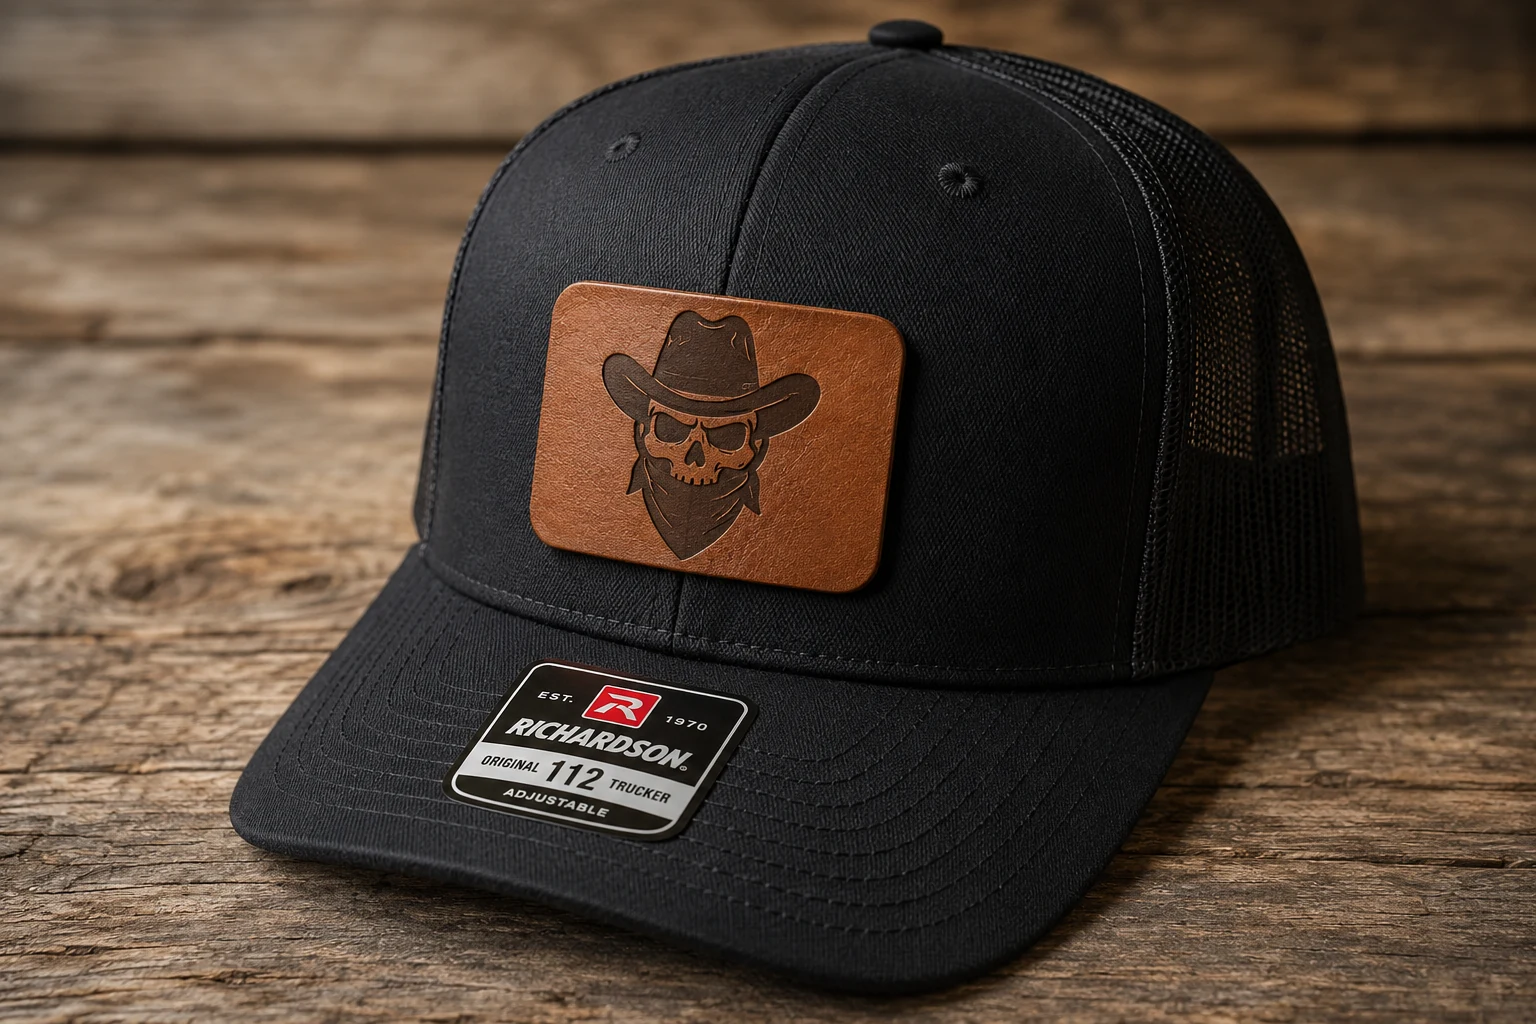
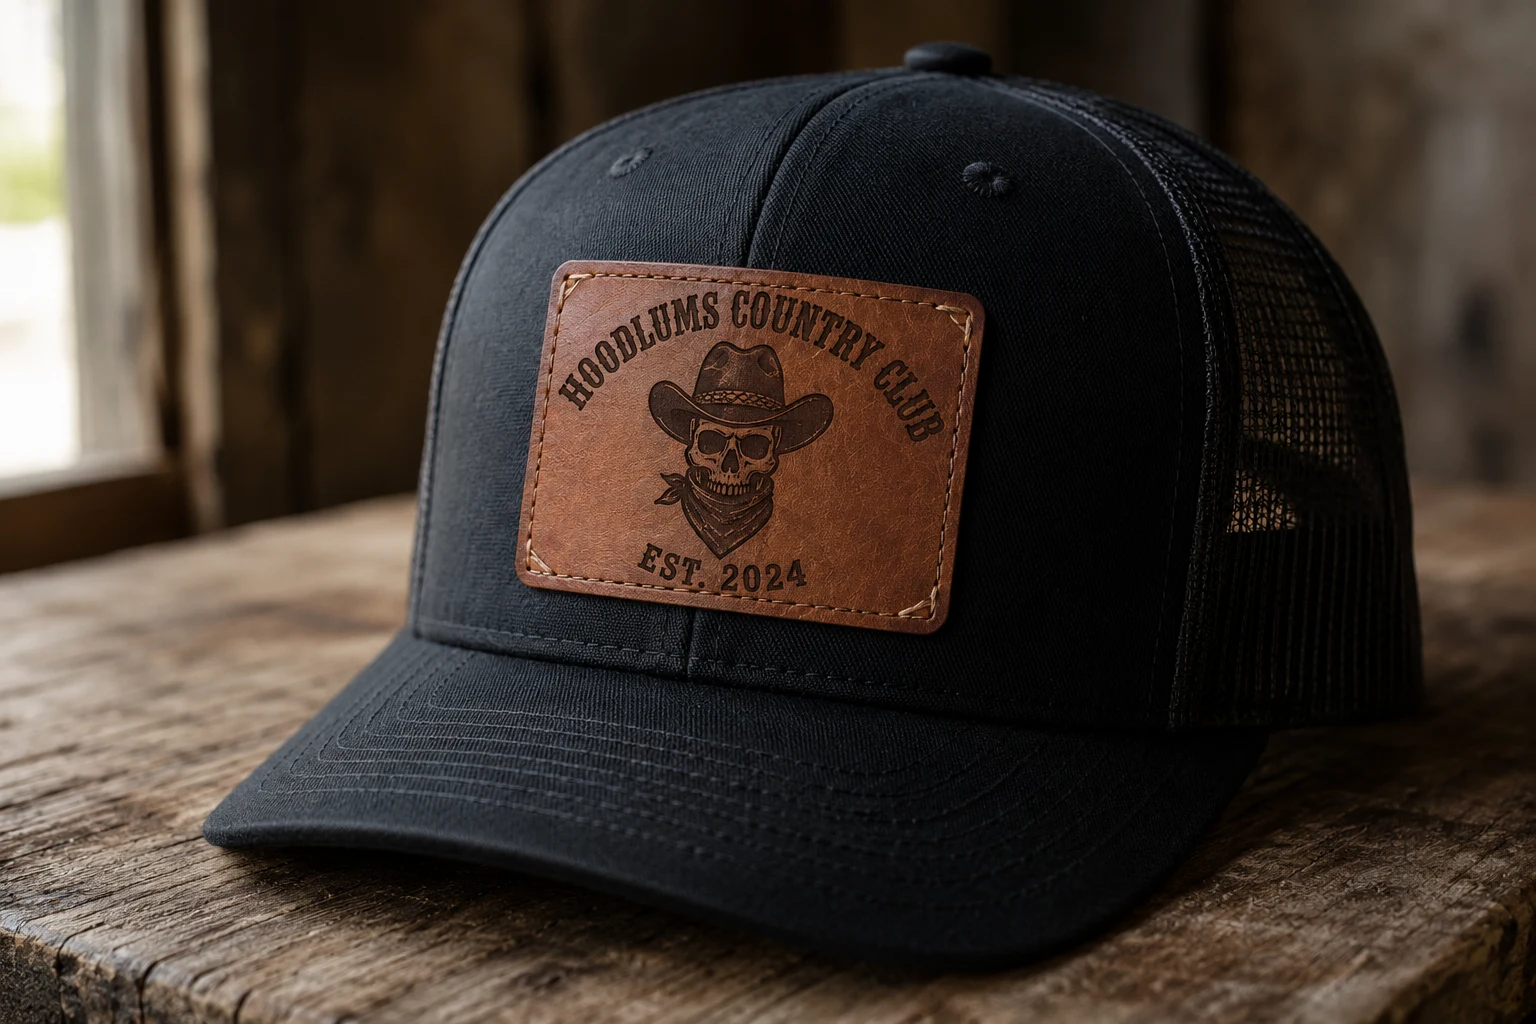
Add 6 HOODLUMS COUNTRY CLUB leather patch hat mockups
Generated photorealistic Richardson 112 + brown veg-tan leather patch
product photos via ChatGPT browser automation. Every patch shows
HOODLUMS COUNTRY CLUB engraved (the whole point of the rebrand).

  prod_021 Mascot Patch Hat      - skull-cowboy mascot, EST. 2024
  prod_022 Crew Crest Patch Hat  - crossed shotgun+rod, EST. 2024 (renamed)
  prod_023 Sunset Highway        - sunset+truck silhouette, LIVE EACH DAY (NEW)
  prod_024 Tree of Hoodlums      - tree with name in branches+roots (NEW)
  prod_025 Bonfire Country       - bonfire+pines, EST. 2024 (NEW)
  prod_026 Compass Heritage      - compass rose, name on outer ring (NEW)

Also fixes printful-setup.mjs patchMockData regex that was duplicating
printfulVariantIds blocks on re-runs (anchored to product close brace
with literal 2-space indent and cleaned the global match pattern).
Cleaned up two corrupted blocks in mock-data (prod_002, prod_010).

diff --git a/src/lib/mock-data.ts b/src/lib/mock-data.ts
@@ -58,20 +58,12 @@ export const MOCK_PRODUCTS: Product[] = [
     printfulProductId: 969,
     printfulColor: "Black",
     printfulVariantIds: {
-      "2XL": 5324368978,
-      "3XL": 5324368979,
-      "L": 5324368980,
-      "M": 5324368981,
-      "S": 5324368982,
-      "XL": 5324368983,
-    printfulVariantIds: {
       "2XL": 5324426412,
       "3XL": 5324426413,
       "L": 5324426414,
       "M": 5324426415,
       "S": 5324426416,
       "XL": 5324426417,
-    },
     },
   },
   {
@@ -260,14 +252,6 @@ export const MOCK_PRODUCTS: Product[] = [
     printfulProductId: 586,
     printfulColor: "Black",
     printfulVariantIds: {
-      "2XL": 5324419102,
-      "3XL": 5324419103,
-      "4XL": 5324419104,
-      "L": 5324419105,
-      "M": 5324419106,
-      "S": 5324419107,
-      "XL": 5324419108,
-    printfulVariantIds: {
       "2XL": 5324426013,
       "3XL": 5324426014,
       "4XL": 5324426015,
@@ -275,7 +259,6 @@ export const MOCK_PRODUCTS: Product[] = [
       "M": 5324426019,
       "S": 5324426020,
       "XL": 5324426022,
-    },
     },
   },
   {
@@ -341,24 +324,80 @@ export const MOCK_PRODUCTS: Product[] = [
     isNew: true,
     isSoldOut: false,
     description:
-      "Richardson 112 all-black with a laser-engraved skull-cowboy mascot deboss on a genuine veg-tanned leather patch. Built for Hobbs Peak production.",
+      "Richardson 112 all-black with a laser-engraved veg-tanned leather patch — HOODLUMS COUNTRY CLUB arched at the top, skull-cowboy mascot centered, EST. 2024 at the bottom.",
     sizes: ["One Size"],
     image: "/images/products/hat-leather-mascot-skull.webp",
     cartoonImage: "/images/products/hat-leather-mascot-skull-cartoon.webp",
   },
   {
     id: "prod_022",
-    name: "Outdoorsman Patch Hat",
+    name: "Crew Crest Patch Hat",
     slug: "hat-leather-crossed-arms",
     price: 42,
     category: "hats",
     isNew: true,
     isSoldOut: false,
     description:
-      "Richardson 112 with a crossed shotgun and fishing rod laser-engraved on a leather patch — CH monogram in the center. Outdoorsman edition.",
+      "Richardson 112 all-black with a laser-engraved veg-tanned leather patch — HOODLUMS COUNTRY CLUB arched at the top, crossed shotgun + fishing rod with a cowboy hat at the intersection, EST. 2024 along the bottom.",
     sizes: ["One Size"],
     image: "/images/products/hat-leather-crossed-arms.webp",
     cartoonImage: "/images/products/hat-leather-crossed-arms-cartoon.webp",
+  },
+  {
+    id: "prod_023",
+    name: "Sunset Highway Patch Hat",
+    slug: "hat-leather-sunset-highway",
+    price: 42,
+    category: "hats",
+    isNew: true,
+    isSoldOut: false,
+    description:
+      "Richardson 112 all-black with a laser-engraved leather patch — HOODLUMS COUNTRY CLUB arched at the top, a sunset-and-dirt-road silhouette with a lifted truck kicking dust, LIVE EACH DAY along the bottom.",
+    sizes: ["One Size"],
+    image: "/images/products/hat-leather-sunset-highway.webp",
+    cartoonImage: "/images/products/hat-leather-sunset-highway.webp",
+  },
+  {
+    id: "prod_024",
+    name: "Tree of Hoodlums Patch Hat",
+    slug: "hat-leather-tree-of-hoodlums",
+    price: 44,
+    category: "hats",
+    isNew: true,
+    isSoldOut: false,
+    description:
+      "Richardson 112 all-black with a laser-engraved leather patch — a stylized tree-of-life with HOODLUMS arched in the upper branches, COUNTRY CLUB arched along the roots, and the skull-cowboy mascot in the trunk.",
+    sizes: ["One Size"],
+    image: "/images/products/hat-leather-tree-of-hoodlums.webp",
+    cartoonImage: "/images/products/hat-leather-tree-of-hoodlums.webp",
+  },
+  {
+    id: "prod_025",
+    name: "Bonfire Country Patch Hat",
+    slug: "hat-leather-bonfire-country",
+    price: 42,
+    category: "hats",
+    isNew: true,
+    isSoldOut: false,
+    description:
+      "Richardson 112 all-black with a laser-engraved leather patch — HOODLUMS COUNTRY CLUB arched at the top, a country bonfire flanked by pine silhouettes, EST. 2024 along the bottom.",
+    sizes: ["One Size"],
+    image: "/images/products/hat-leather-bonfire-country.webp",
+    cartoonImage: "/images/products/hat-leather-bonfire-country.webp",
+  },
+  {
+    id: "prod_026",
+    name: "Compass Heritage Patch Hat",
+    slug: "hat-leather-compass-heritage",
+    price: 44,
+    category: "hats",
+    isNew: true,
+    isSoldOut: false,
+    description:
+      "Richardson 112 all-black with a laser-engraved leather patch — an 8-point compass rose with HOODLUMS COUNTRY CLUB wrapping the outer ring and the skull-cowboy mascot at the compass center.",
+    sizes: ["One Size"],
+    image: "/images/products/hat-leather-compass-heritage.webp",
+    cartoonImage: "/images/products/hat-leather-compass-heritage.webp",
   },
   {
     id: "prod_014",